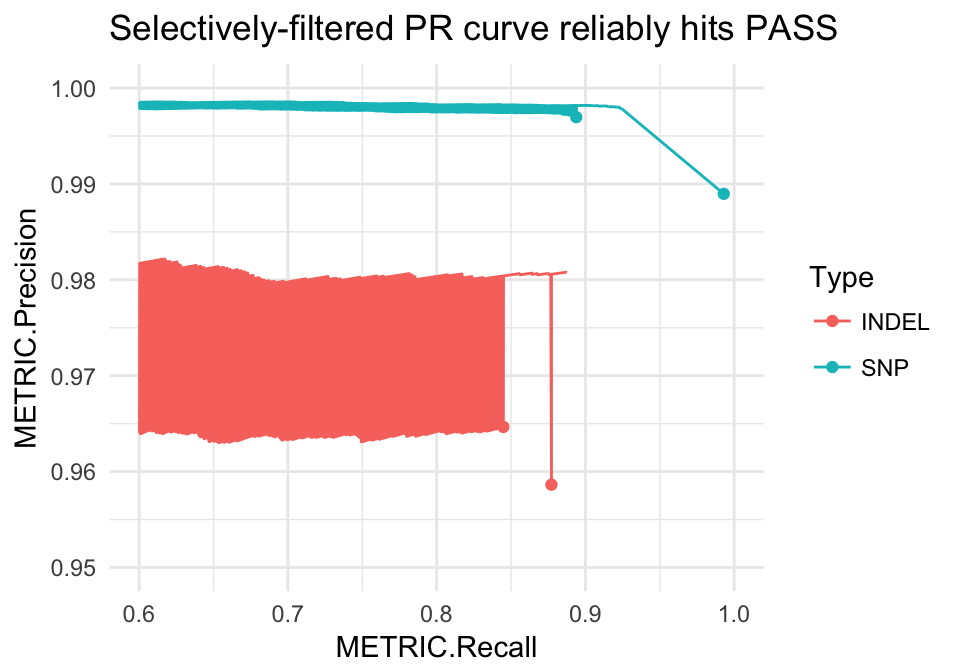
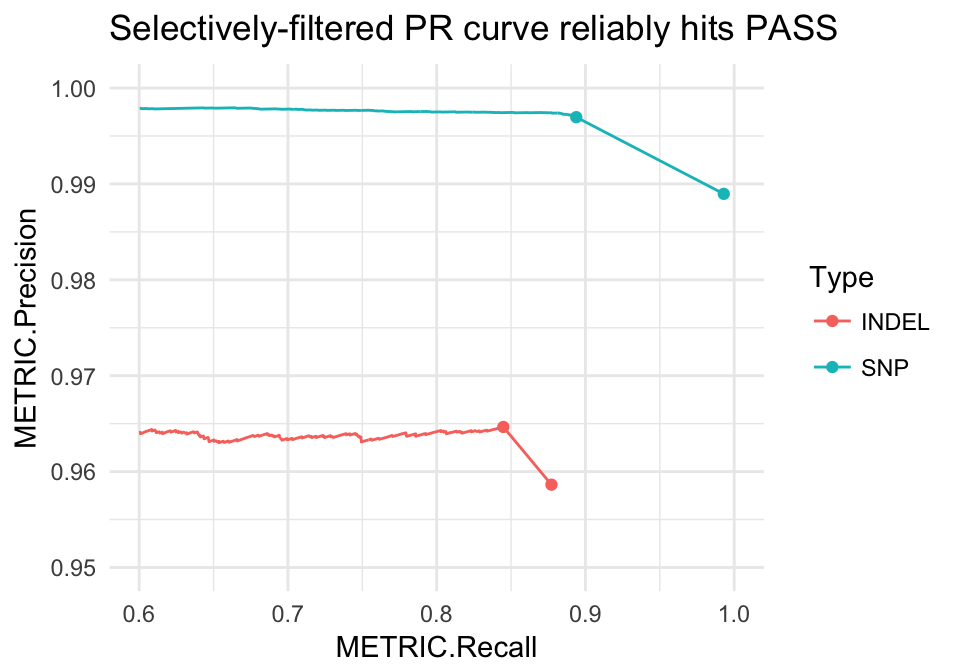
docs + readme

diff --git a/docs/index.html b/docs/index.html
@@ -55,7 +55,7 @@
 <div class="page-header"><h1 class="hasAnchor">
 <a href="#happyr" class="anchor"></a>happyR</h1></div>
 
-<p>Load hap.py results into a useful R data structure</p>
+<p>Load <a href="https://github.com/Illumina/hap.py">hap.py</a> results into an R data structure to enable plotting, comparisons and aggregation.</p>
 <div id="install" class="section level2">
 <h2 class="hasAnchor">
 <a href="#install" class="anchor"></a>Install</h2>
@@ -128,15 +128,16 @@ hapdata
 <div id="indel-subtypes" class="section level3">
 <h3 class="hasAnchor">
 <a href="#indel-subtypes" class="anchor"></a>Indel subtypes</h3>
+<p>Here subtypes are categories based on the variant type and length (e.g. <code>I6_15</code> are insertions of length 6 bp up to 15 bp). Genomic subsets are <code>*</code> for all, <code>TS_contained</code> for truth variants fully-contained with confident regions and <code>TS_boundary</code> for truth variants near the edge of a confident region block. See <a href="https://github.com/Illumina/hap.py/blob/master/doc/happy.md">hap.py docs</a> for more info.</p>
 <div class="sourceCode"><pre class="sourceCode r"><code class="sourceCode r"><span class="kw">library</span>(ggplot2)
 
-## get indel subtypes from 'extended', skipping complex alleles and combined
+<span class="co"># get indel subtypes from 'extended', skipping complex alleles and combined</span>
 indel_extended &lt;-<span class="st"> </span><span class="kw">subset</span>(hapdata$extended, Type ==<span class="st"> "INDEL"</span> &amp;<span class="st"> </span>
 <span class="st">                         </span>Filter ==<span class="st"> "ALL"</span> &amp;<span class="st"> </span><span class="kw">grepl</span>(<span class="st">"^[DI]"</span>, Subtype))
 
 <span class="co"># Precision-recall by subtype, scaled by number in truthset</span>
 <span class="kw">ggplot</span>(indel_extended, <span class="kw">aes</span>(<span class="dt">x =</span> METRIC.Recall, <span class="dt">y =</span> METRIC.Precision, 
-                           <span class="dt">col =</span> Subtype, <span class="dt">size =</span> TRUTH.TOTAL)) +
+                           <span class="dt">col =</span> Subtype, <span class="dt">size =</span> TRUTH.TOTAL, <span class="dt">shape=</span>Subset)) +
 <span class="st">  </span><span class="kw">geom_point</span>() +<span class="st"> </span><span class="kw">theme_minimal</span>() +<span class="st"> </span>
 <span class="st">  </span><span class="kw">scale_color_brewer</span>(<span class="dt">palette =</span> <span class="st">"Set2"</span>) +
 <span class="st">  </span><span class="kw">scale_size</span>(<span class="dt">guide =</span> <span class="st">"none"</span>) +
@@ -146,8 +147,10 @@ indel_extended &lt;-<span class="st"> </span><span class="kw">subset</span>(hapd
 <div id="precision-recall-curves" class="section level3">
 <h3 class="hasAnchor">
 <a href="#precision-recall-curves" class="anchor"></a>Precision-recall curves</h3>
+<p>PR curves show how precision and recall vary with a changing threshold, in this example it’s over a range of quality score thresholds applied to a set of variants: as the threshold increases, the remaining variant set is less comprehensive (lower recall) but typically contains fewer false positives (higher precision).</p>
+<p>This gets more complicated when <code>PASS</code> records aren’t set solely by a single quality score threshold, but by multiple independent filters (e.g. high-depth, genomic context, etc.). These interactions can’t be fully captured by drawing a PR curve only on a quality threshold:</p>
 <div class="sourceCode"><pre class="sourceCode r"><code class="sourceCode r"><span class="co"># PR curve starting at ALL point</span>
-all_pr &lt;-<span class="st"> </span><span class="kw">subset</span>(hapdata$pr_curve$all, Filter ==<span class="st"> "ALL"</span> &amp;<span class="st"> </span>Subtype ==<span class="st"> "*"</span>)
+all_pr &lt;-<span class="st"> </span><span class="kw">subset</span>(hapdata$pr_curve$all, Filter ==<span class="st"> "ALL"</span> &amp;<span class="st"> </span>Subtype ==<span class="st"> "*"</span> &amp;<span class="st"> </span>Subset ==<span class="st"> "*"</span>)
 
 <span class="kw">ggplot</span>(all_pr, <span class="kw">aes</span>(<span class="dt">x =</span> METRIC.Recall, <span class="dt">y =</span> METRIC.Precision, <span class="dt">col =</span> Type)) +
 <span class="st">  </span><span class="kw">geom_line</span>() +<span class="st"> </span><span class="kw">theme_minimal</span>() +
@@ -156,8 +159,9 @@ all_pr &lt;-<span class="st"> </span><span class="kw">subset</span>(hapdata$pr_c
 <span class="st">  </span><span class="kw">scale_y_continuous</span>(<span class="dt">limits =</span> <span class="kw">c</span>(.<span class="dv">95</span>, <span class="dv">1</span>)) +
 <span class="st">  </span><span class="kw">ggtitle</span>(<span class="st">"ALL PR curve might not hit the PASS point"</span>)</code></pre></div>
 <p><img src="examples/README-all_pr-1.png" width="480" style="display: block; margin: auto;"></p>
+<p>Hap.py accounts for this by generating a selectively-filtered PR curve (<code>SEL</code>). First these independent filters are applied to the variant set, then we can draw the remaining PR curve using the quality score threshold. This gives a more accurate view of how changing the quality score threshold can impact precision and recall.</p>
 <div class="sourceCode"><pre class="sourceCode r"><code class="sourceCode r"><span class="co"># selectively filtered PR curve</span>
-pr &lt;-<span class="st"> </span><span class="kw">subset</span>(hapdata$pr_curve$all, Filter ==<span class="st"> "SEL"</span> &amp;<span class="st"> </span>Subtype ==<span class="st"> "*"</span>)
+pr &lt;-<span class="st"> </span><span class="kw">subset</span>(hapdata$pr_curve$all, Filter ==<span class="st"> "SEL"</span> &amp;<span class="st"> </span>Subtype ==<span class="st"> "*"</span> &amp;<span class="st"> </span>Subset ==<span class="st"> "*"</span>)
 
 <span class="co"># link this to the ALL point</span>
 pr &lt;-<span class="st"> </span>dplyr::<span class="kw">bind_rows</span>(pr, <span class="kw">subset</span>(hapdata$summary, Filter ==<span class="st"> "ALL"</span>))

diff --git a/README.md b/README.md
@@ -4,7 +4,7 @@ happyR
 
 [![Build Status](https://ukch-prd-jnks01.illumina.com/buildStatus/icon?job=happyR/master)](https://ukch-prd-jnks01.illumina.com/job/happyR/job/master/)
 
-Load hap.py results into a useful R data structure
+Load [hap.py](https://github.com/Illumina/hap.py) results into an R data structure to enable plotting, comparisons and aggregation.
 
 Install
 -------
@@ -87,7 +87,7 @@ Here subtypes are categories based on the variant type and length (e.g. `I6_15` 
 ``` r
 library(ggplot2)
 
-## get indel subtypes from 'extended', skipping complex alleles and combined
+# get indel subtypes from 'extended', skipping complex alleles and combined
 indel_extended <- subset(hapdata$extended, Type == "INDEL" & 
                          Filter == "ALL" & grepl("^[DI]", Subtype))
 
@@ -104,7 +104,7 @@ ggplot(indel_extended, aes(x = METRIC.Recall, y = METRIC.Precision,
 
 ### Precision-recall curves
 
-Precision-Recall (PR) curves show how precision and recall vary with a changing threshold, in this example it's over a range of quality score thresholds: as the threshold increases, the remaining variant set is less comprehensive (lower recall) but typically contains fewer false positives (higher precision).
+PR curves show how precision and recall vary with a changing threshold, in this example it's over a range of quality score thresholds applied to a set of variants: as the threshold increases, the remaining variant set is less comprehensive (lower recall) but typically contains fewer false positives (higher precision).
 
 This gets more complicated when `PASS` records aren't set solely by a single quality score threshold, but by multiple independent filters (e.g. high-depth, genomic context, etc.). These interactions can't be fully captured by drawing a PR curve only on a quality threshold:
 
@@ -122,7 +122,7 @@ ggplot(all_pr, aes(x = METRIC.Recall, y = METRIC.Precision, col = Type)) +
 
 <img src="examples/README-all_pr-1.png" style="display: block; margin: auto;" />
 
-Hap.py accounts for this by generating a selectively-filtered PR curve (`SEL`). First hap.py applies these independent filters to the variant set, then we can draw the remaining PR curve using the quality score threshold.
+Hap.py accounts for this by generating a selectively-filtered PR curve (`SEL`). First these independent filters are applied to the variant set, then we can draw the remaining PR curve using the quality score threshold. This gives a more accurate view of how changing the quality score threshold can impact precision and recall.
 
 ``` r
 # selectively filtered PR curve
